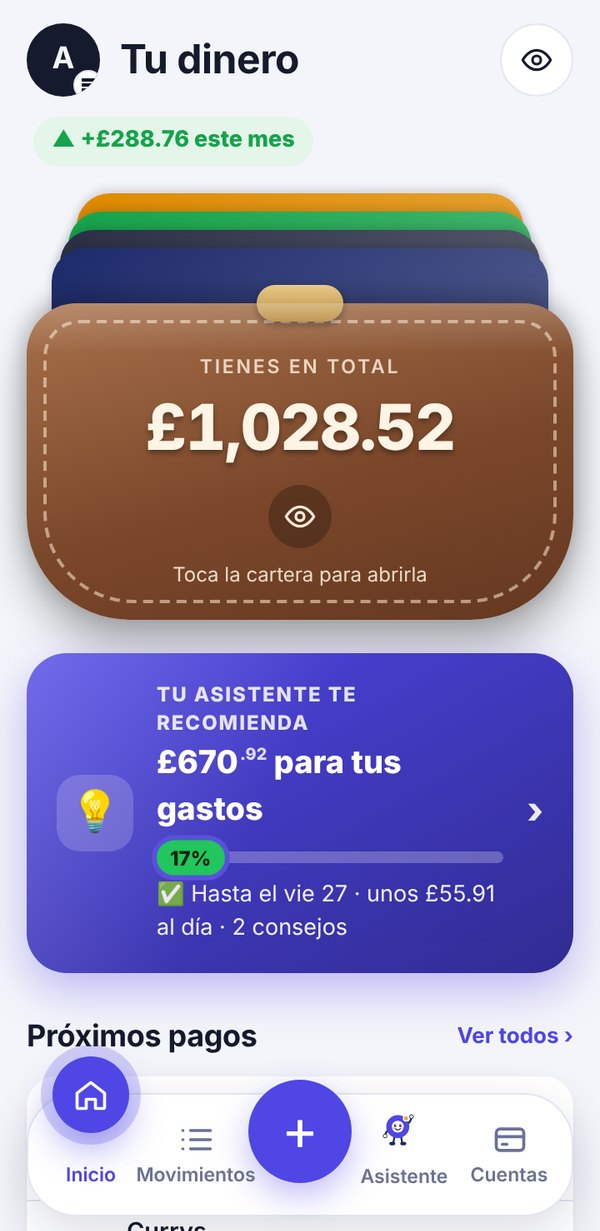
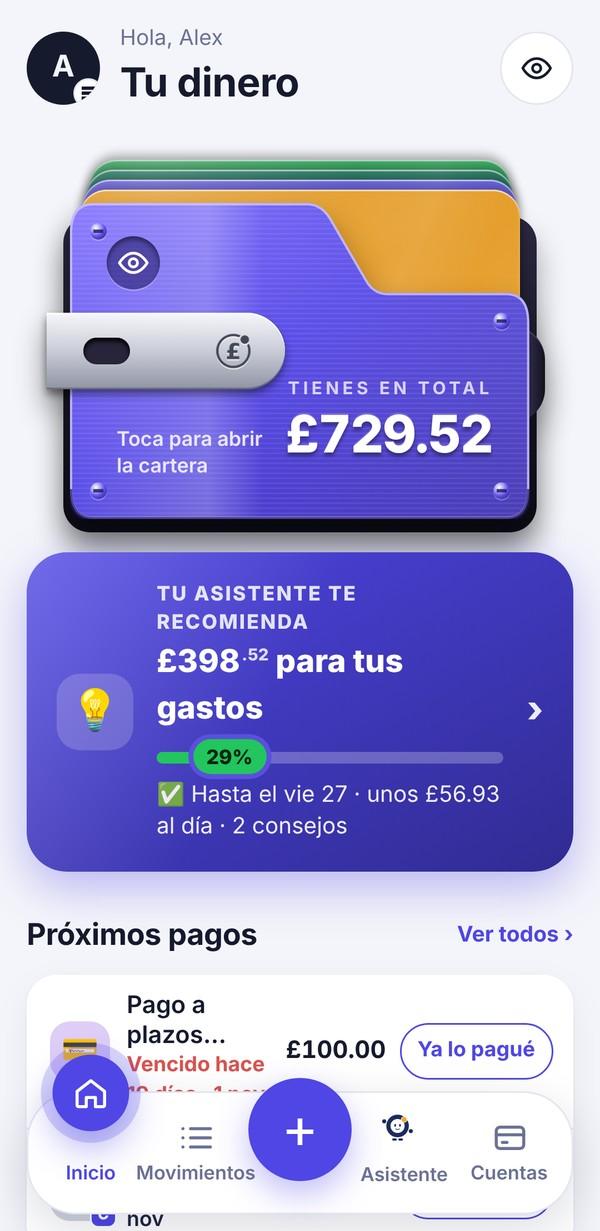
Web: capturas nuevas de Mis Finanzas 2.10.x y Oli te aconseja
- Inicio, Movimientos y Calendario con capturas de la app actual (ES y EN)
- Nuevo punto en la lista: Oli te aconseja, con el simulador de ahorro
- Paso 3 de «en acción»: Oli también aconseja con tus números

Claude-Session: https://claude.ai/code/session_01PwMX3GkVNcqjtm8yA72FrD

diff --git a/index.html b/index.html
@@ -556,6 +556,7 @@ footer .bajo{border-top:1px solid var(--line);margin-top:44px;padding-top:24px;f
         <ul class="feats">
           <li><span class="ck"><svg><use href="#ck"/></svg></span><span data-es="<b>Pagos que se apuntan solos.</b> Lee los avisos de Google Wallet y de las apps de Lloyds, Halifax, Monzo, Barclays, HSBC, Nationwide, Santander, NatWest, Starling, Revolut y más; tú solo confirmas." data-en="<b>Payments that log themselves.</b> It reads Google Wallet and alerts from the Lloyds, Halifax, Monzo, Barclays, HSBC, Nationwide, Santander, NatWest, Starling and Revolut apps, and more; you just confirm."><b>Pagos que se apuntan solos.</b> Lee los avisos de Google Wallet y de las apps de Lloyds, Halifax, Monzo, Barclays, HSBC, Nationwide, Santander, NatWest, Starling, Revolut y más; tú solo confirmas.</span></li>
           <li><span class="ck"><svg><use href="#ck"/></svg></span><span data-es="<b>Cuánto te queda.</b> Oli, tu asistente, te dice cuánto tienes para tus gastos y cuánto al día." data-en="<b>What's left.</b> Oli, your assistant, tells you how much you have for spending, and how much per day."><b>Cuánto te queda.</b> Oli, tu asistente, te dice cuánto tienes para tus gastos y cuánto al día.</span></li>
+          <li><span class="ck"><svg><use href="#ck"/></svg></span><span data-es="<b>Oli te aconseja.</b> Consejos con tus propios números y un simulador para ver cómo termina el mes." data-en="<b>Oli gives you advice.</b> Tips based on your own numbers, and a savings simulator to see how the month ends."><b>Oli te aconseja.</b> Consejos con tus propios números y un simulador para ver cómo termina el mes.</span></li>
           <li><span class="ck"><svg><use href="#ck"/></svg></span><span data-es="<b>Avisos antes de cada pago.</b> Renta, facturas y suscripciones, sin sustos." data-en="<b>Reminders before every payment.</b> Rent, bills and subscriptions, no surprises."><b>Avisos antes de cada pago.</b> Renta, facturas y suscripciones, sin sustos.</span></li>
           <li><span class="ck"><svg><use href="#ck"/></svg></span><span data-es="<b>Copias en tu Drive.</b> Y exporta a PDF, Excel o CSV cuando quieras." data-en="<b>Backups in your Drive.</b> And export to PDF, Excel or CSV whenever you like."><b>Copias en tu Drive.</b> Y exporta a PDF, Excel o CSV cuando quieras.</span></li>
         </ul>
@@ -624,7 +625,7 @@ footer .bajo{border-top:1px solid var(--line);margin-top:44px;padding-top:24px;f
       <div class="sh-txt">
         <div class="st on" data-p="1"><div class="n">01</div><h3 data-es="Pagas como siempre" data-en="Pay as usual">Pagas como siempre</h3><p data-es="Con el móvil, con Google Wallet o con tu tarjeta. Al momento te llega el aviso del pago." data-en="With your phone, Google Wallet or your card. The payment alert arrives straight away.">Con el móvil, con Google Wallet o con tu tarjeta. Al momento te llega el aviso del pago.</p></div>
         <div class="st" data-p="2"><div class="n">02</div><h3 data-es="Un toque y queda apuntado" data-en="One tap and it's logged">Un toque y queda apuntado</h3><p data-es="Mis Finanzas lee el aviso en tu teléfono y te lo deja listo. Tú solo confirmas." data-en="My Finances reads the alert on your phone and gets it ready. You just confirm.">Mis Finanzas lee el aviso en tu teléfono y te lo deja listo. Tú solo confirmas.</p></div>
-        <div class="st" data-p="3"><div class="n">03</div><h3 data-es="Sabes cuánto puedes gastar hoy" data-en="Know what you can spend today">Sabes cuánto puedes gastar hoy</h3><p data-es="Oli, el asistente de la app, calcula cada día lo que te queda para llegar bien a fin de mes." data-en="Every day, Oli, the app's assistant, works out what's left to get you to the end of the month.">Oli, el asistente de la app, calcula cada día lo que te queda para llegar bien a fin de mes.</p></div>
+        <div class="st" data-p="3"><div class="n">03</div><h3 data-es="Sabes cuánto puedes gastar hoy" data-en="Know what you can spend today">Sabes cuánto puedes gastar hoy</h3><p data-es="Oli, el asistente de la app, calcula cada día lo que te queda para llegar bien a fin de mes, y te aconseja con tus números." data-en="Every day, Oli, the app's assistant, works out what's left to get you to the end of the month, and gives you advice based on your numbers.">Oli, el asistente de la app, calcula cada día lo que te queda para llegar bien a fin de mes, y te aconseja con tus números.</p></div>
         <div class="st" data-p="4"><div class="n">04</div><h3 data-es="Todo en orden, mes a mes" data-en="Everything in order, month by month">Todo en orden, mes a mes</h3><p data-es="Busca, filtra y mira en qué se va tu dinero. Con copia en tu propio Google Drive." data-en="Search, filter and see where your money goes. Backed up to your own Google Drive.">Busca, filtra y mira en qué se va tu dinero. Con copia en tu propio Google Drive.</p></div>
       </div>
       <div class="sh-vis">
